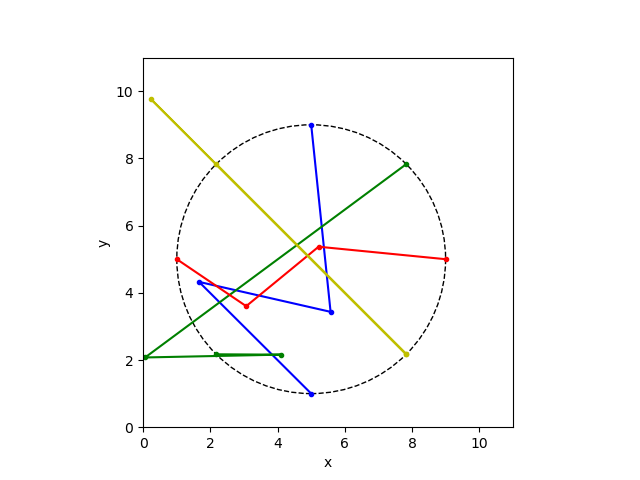
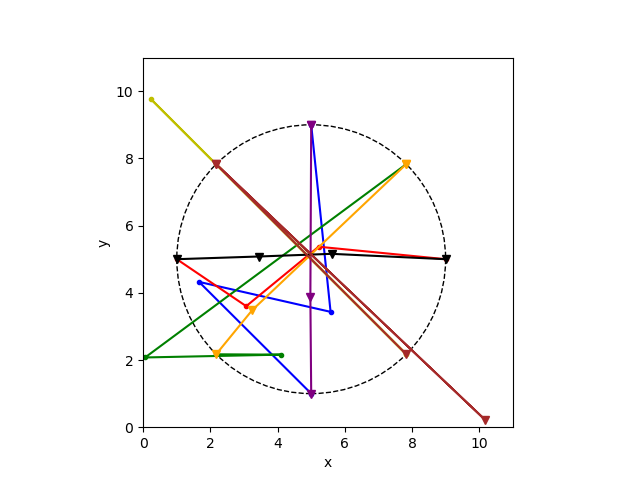
modified clock visualization

diff --git a/visualize.py b/visualize.py
@@ -6,12 +6,22 @@ import matplotlib.pyplot as plt
 import matplotlib.patches as patch
 import sys
 
-data = numpy.loadtxt('spath_clock_.txt')
+data = numpy.loadtxt('spath_clock_3.txt')
 fig, ax = plt.subplots()
-ax.plot(data[:, 0],data[:, 1],'.-', color='b', label='Robot1')
-ax.plot(data[:, 2],data[:, 3],'.-', color='g', label='Robot2')
-ax.plot(data[:, 4],data[:, 5],'.-', color='r', label='Robot3')
-ax.plot(data[:, 6],data[:, 7],'.-', color='y', label='Robot4')
+# ax.plot(data[:, 0],data[:, 1],'.-', color='b', label='Robot1')
+# ax.plot(data[:, 2],data[:, 3],'.-', color='g', label='Robot2')
+# ax.plot(data[:, 4],data[:, 5],'.-', color='r', label='Robot3')
+# ax.plot(data[:, 6],data[:, 7],'.-', color='y', label='Robot4')
+
+ax.plot(data[:, 8],data[:, 9],'.-', color='b', label='Robot5')
+ax.plot(data[:, 10],data[:, 11],'.-', color='g', label='Robot6')
+ax.plot(data[:, 12],data[:, 13],'.-', color='r', label='Robot7')
+ax.plot(data[:, 14],data[:, 15],'.-', color='y', label='Robot8')
+
+# ax.plot(data[:, 8],data[:, 9],'.-', color='orange', label='Robot5')
+# ax.plot(data[:, 10],data[:, 11],'.-', color='brown', label='Robot6')
+# ax.plot(data[:, 12],data[:, 13],'.-', color='black', label='Robot7')
+# ax.plot(data[:, 14],data[:, 15],'.-', color='m', label='Robot8')
 
 wait = True
 while wait:
@@ -49,5 +59,5 @@ while wait:
         else:
             print("Invalid input. Enter 1 or 2")
 
-plt.savefig('spath_clock_.png')
+plt.savefig('spath_clock_3_lastfour.png')
 plt.show()
